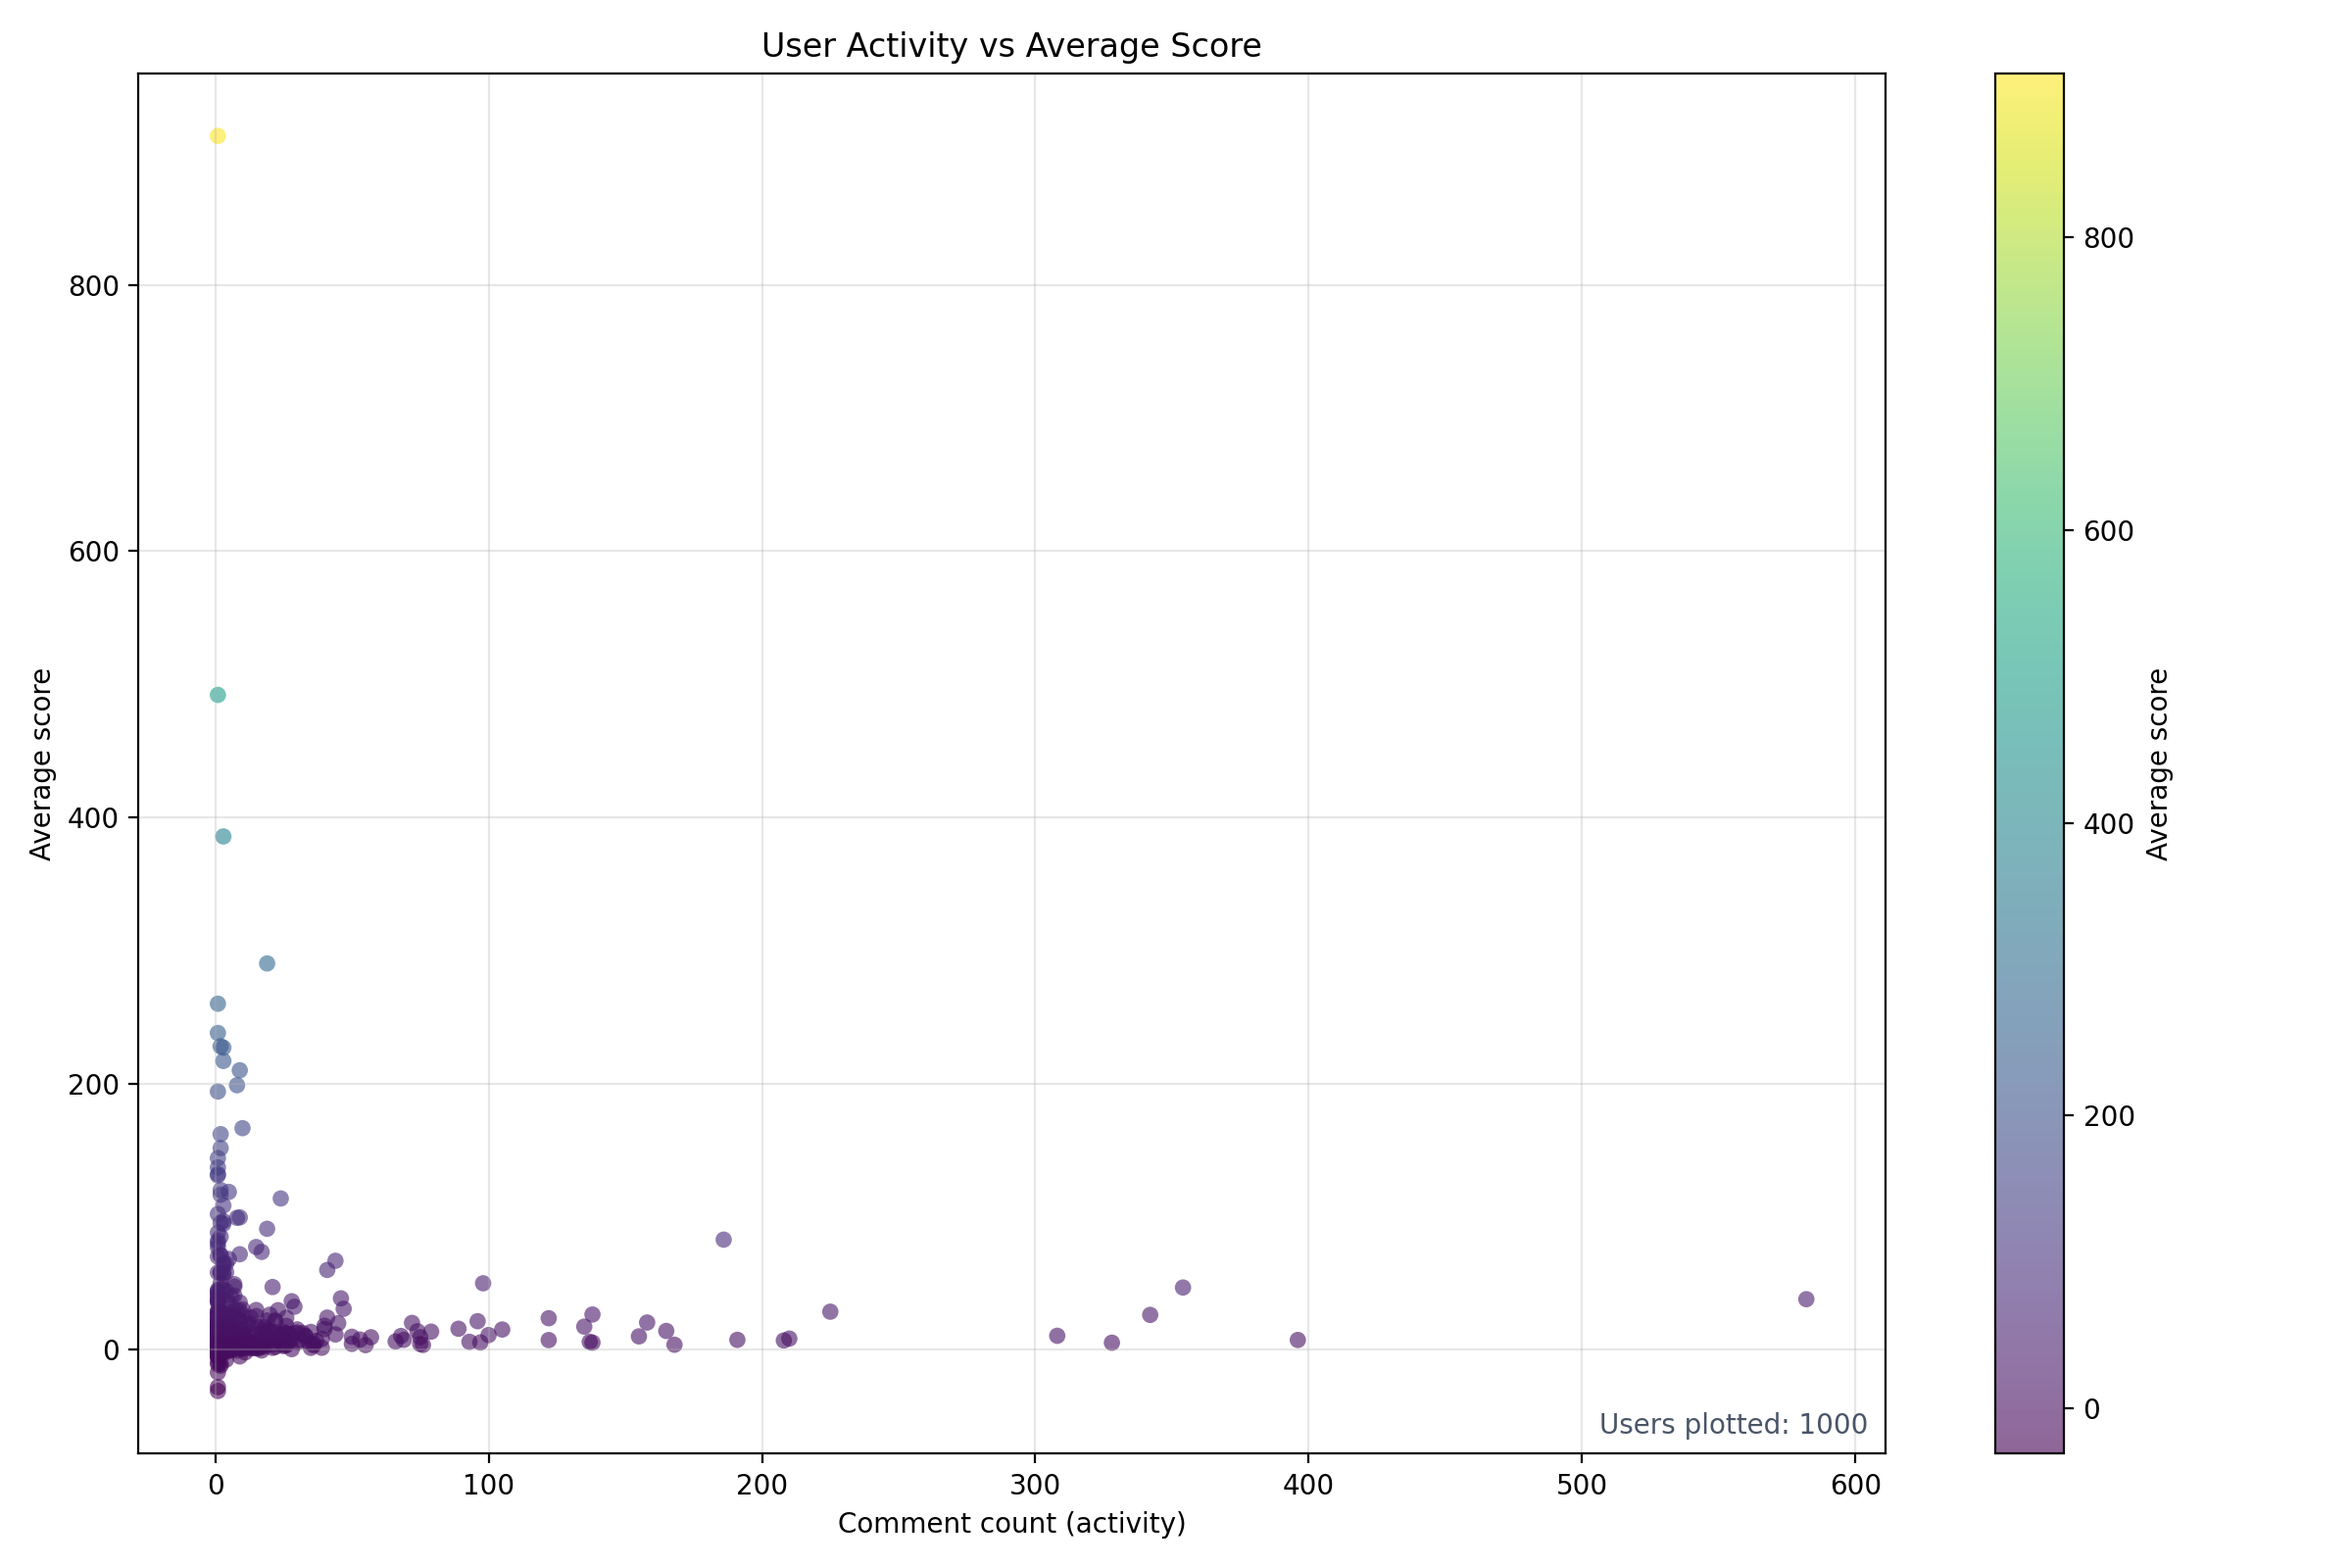
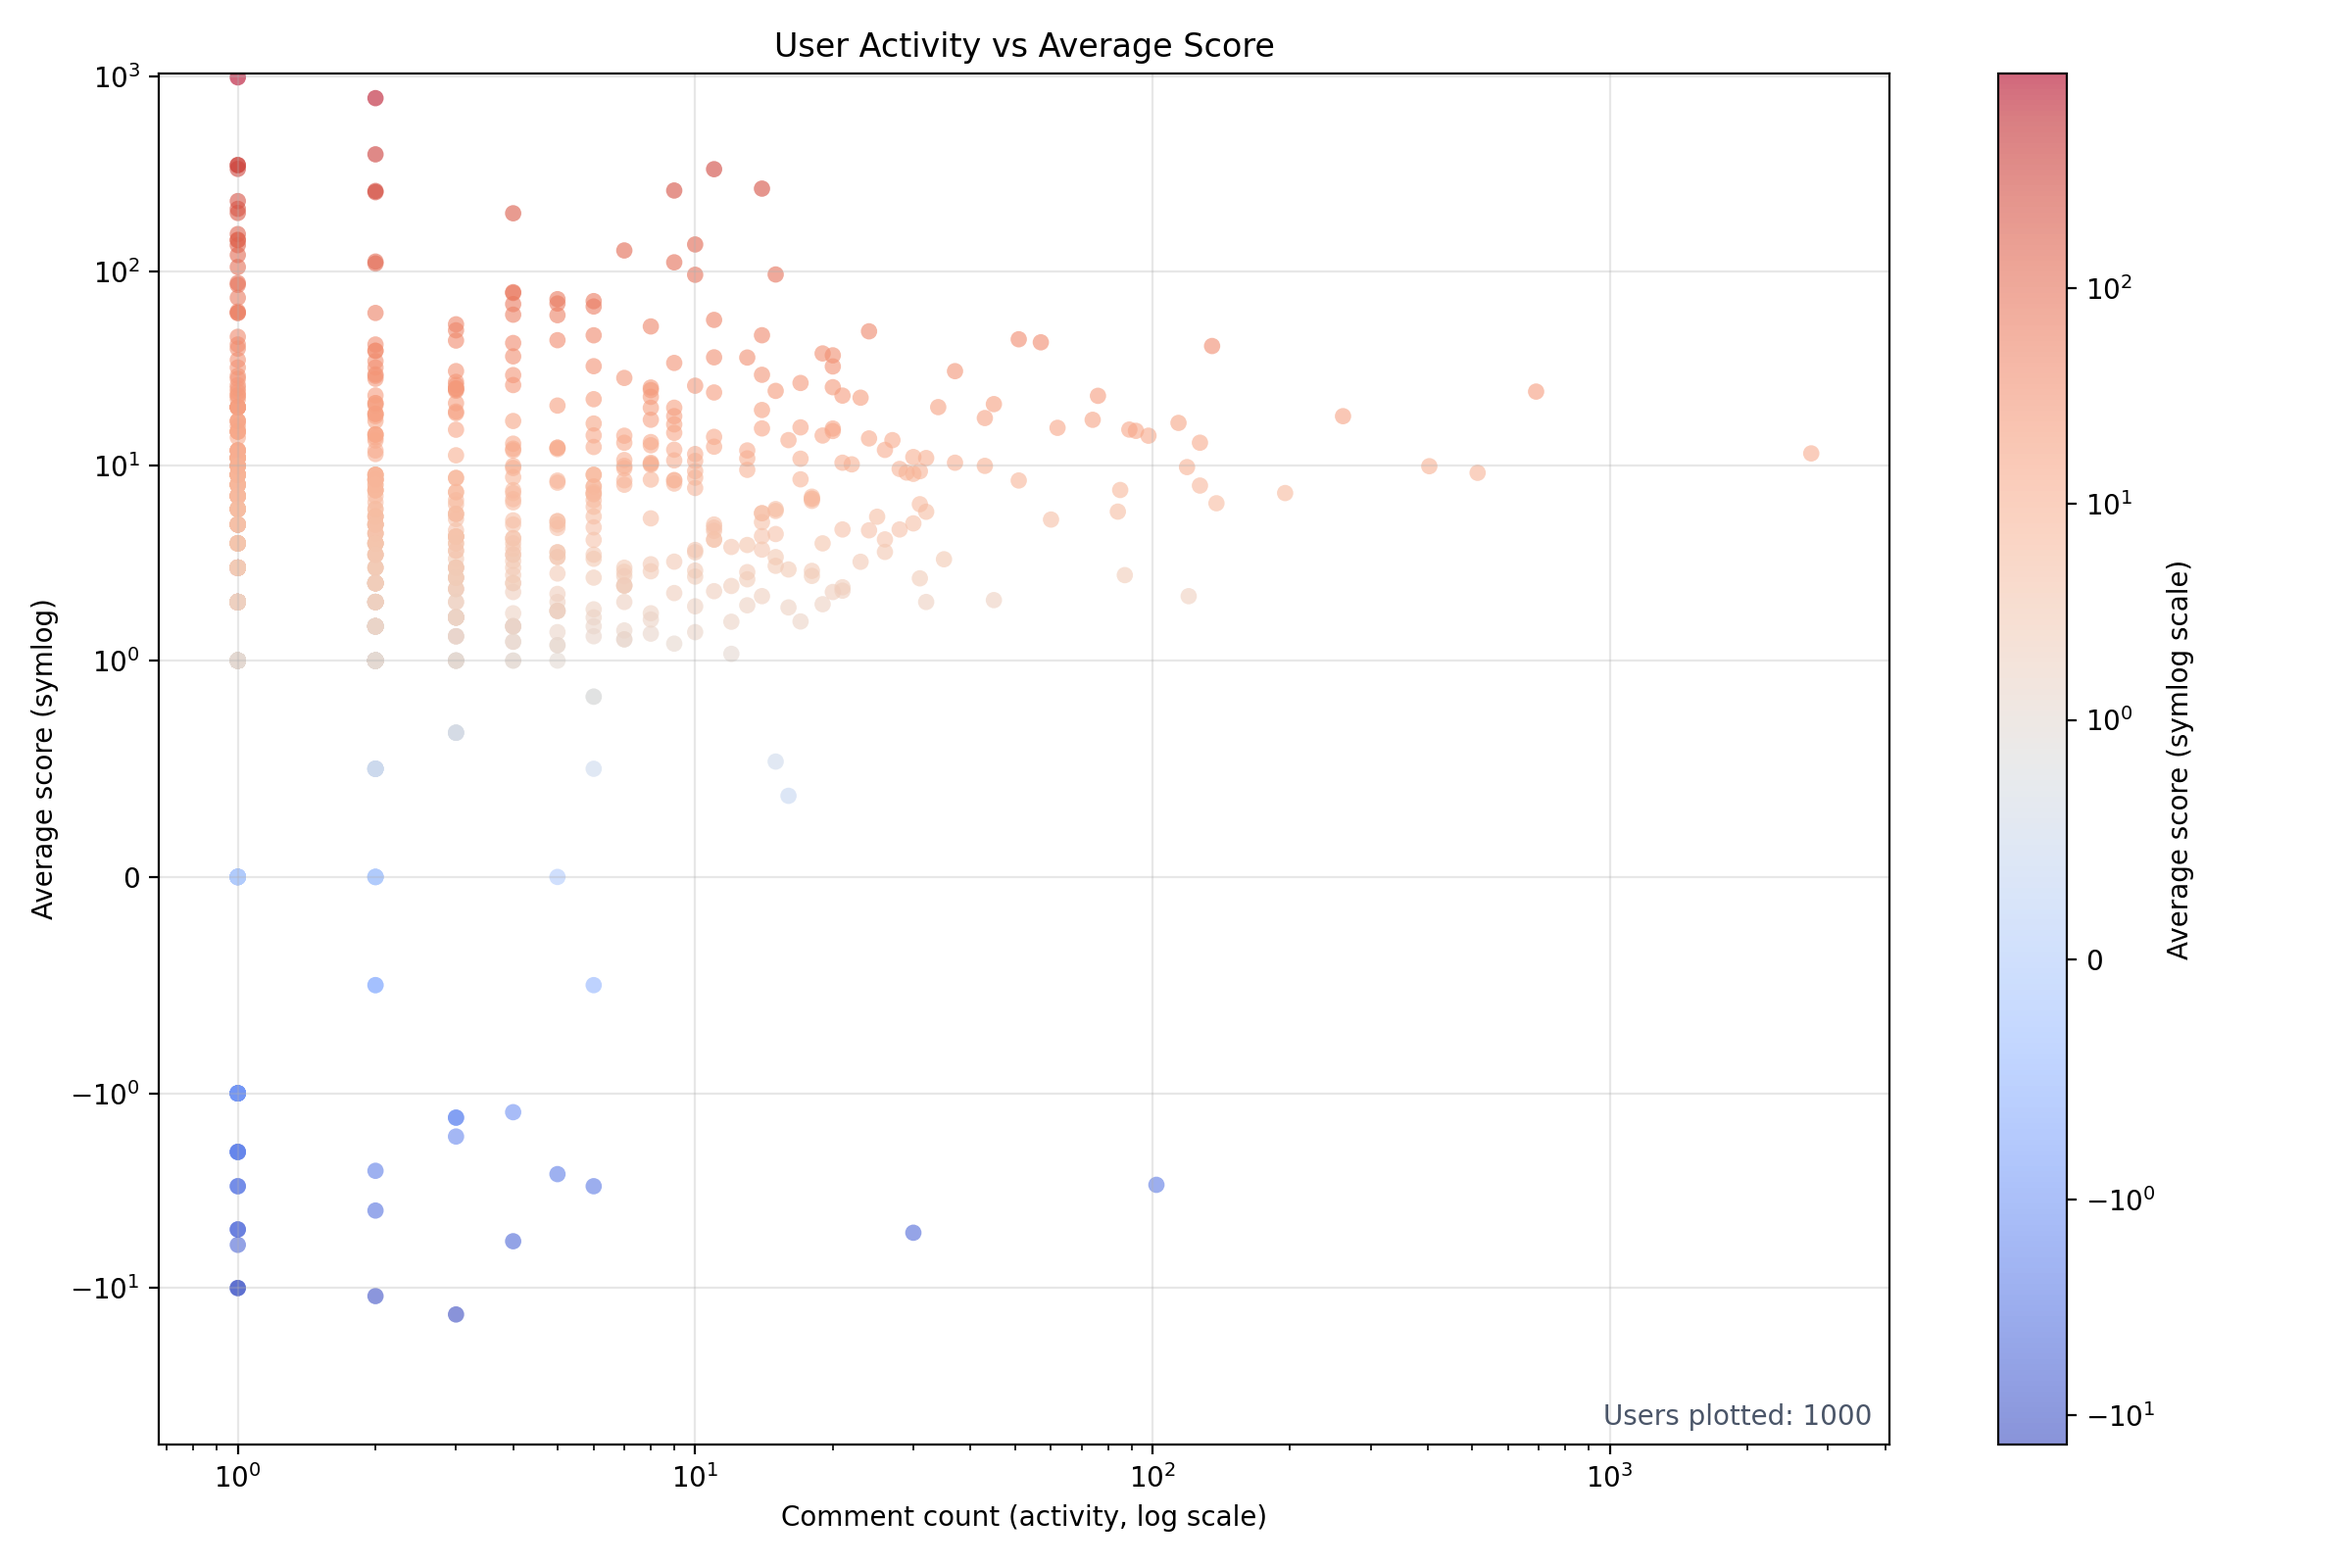
user scatter

diff --git a/plot_user_scatter.py b/plot_user_scatter.py
@@ -10,6 +10,7 @@ from pathlib import Path
 
 import matplotlib.pyplot as plt
 import pandas as pd
+from matplotlib.colors import SymLogNorm
 
 
 def parse_args() -> argparse.Namespace:
@@ -58,20 +59,26 @@ def main() -> None:
         df = df.sample(n=sample_size, random_state=None)
 
     fig, ax = plt.subplots(figsize=(12, 8))
+    vmin = df["average_score"].min()
+    vmax = df["average_score"].max()
+    norm = SymLogNorm(linthresh=1.0, vmin=vmin, vmax=vmax, base=10)
     scatter = ax.scatter(
         df["comment_count"],
         df["average_score"],
         c=df["average_score"],
-        cmap="viridis",
+        cmap="coolwarm",
+        norm=norm,
         alpha=0.6,
         edgecolor="none",
     )
-    ax.set_xlabel("Comment count (activity)")
-    ax.set_ylabel("Average score")
+    ax.set_xscale("log")
+    ax.set_xlabel("Comment count (activity, log scale)")
+    ax.set_yscale("symlog", linthresh=1.0)
+    ax.set_ylabel("Average score (symlog)")
     ax.set_title("User Activity vs Average Score")
     ax.grid(alpha=0.3)
     cbar = fig.colorbar(scatter, ax=ax)
-    cbar.set_label("Average score")
+    cbar.set_label("Average score (symlog scale)")
 
     caption = f"Users plotted: {len(df)}"
     ax.text(
